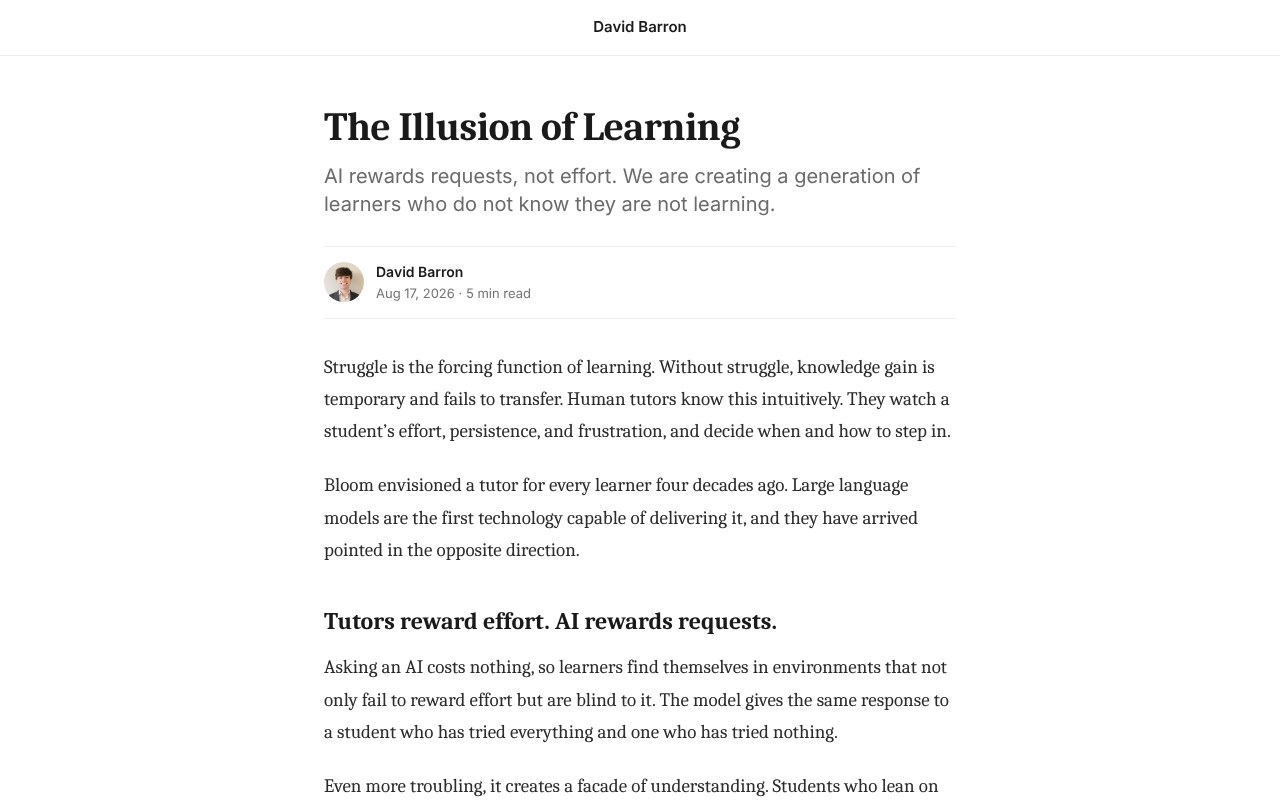
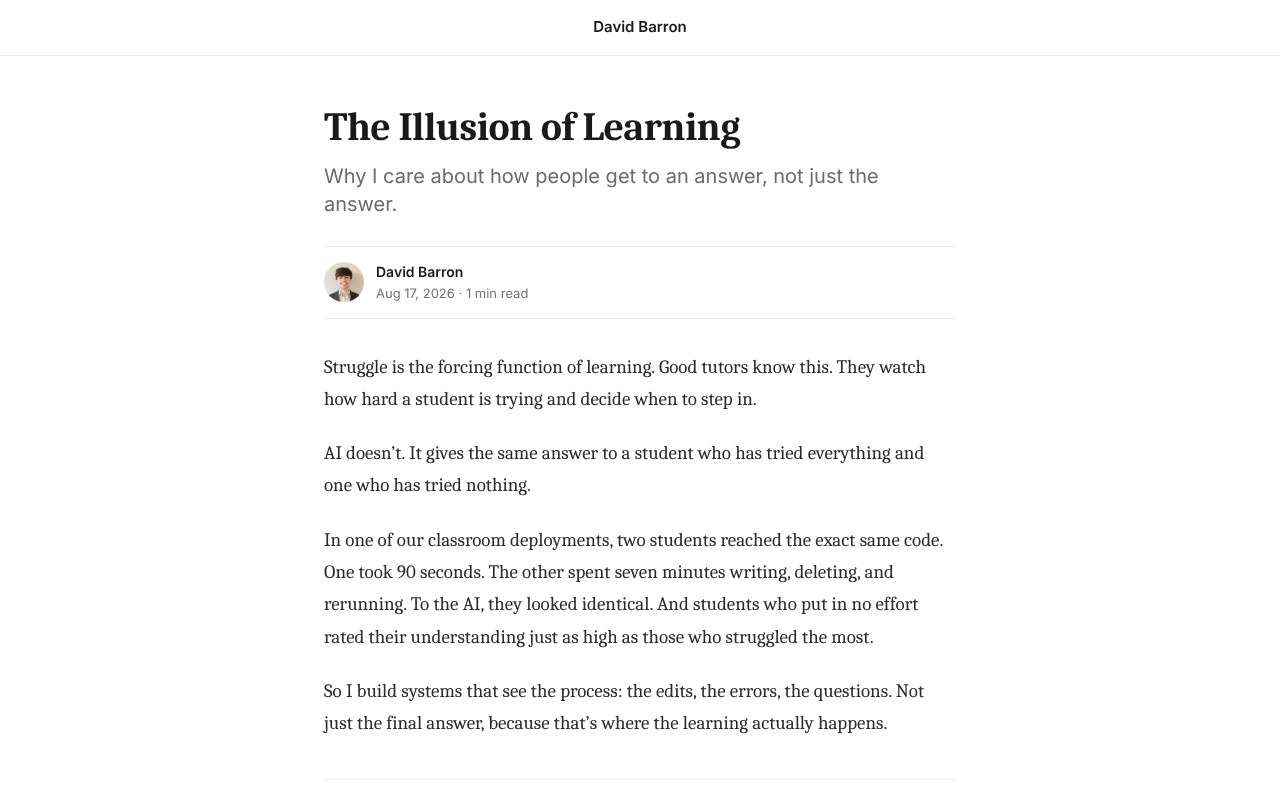
Shorten the processes essay to four paragraphs
Claude-Session: https://claude.ai/code/session_01DbsHnQUqvyjScQ5v9HB7wf

diff --git a/app/essays/illusion-of-learning/page.js b/app/essays/illusion-of-learning/page.js
@@ -1,6 +1,6 @@
 export const metadata = {
   title: "The Illusion of Learning — David Barron",
-  description: "AI rewards requests, not effort. We are creating a generation of learners who do not know they are not learning.",
+  description: "Why I care about how people get to an answer, not just the answer.",
 };
 
 export default function Essay() {
@@ -14,93 +14,30 @@ export default function Essay() {
 
       <article className="essay">
         <h1>The Illusion of Learning</h1>
-        <p className="essay-sub">
-          AI rewards requests, not effort. We are creating a generation of learners who do not know they are not
-          learning.
-        </p>
+        <p className="essay-sub">Why I care about how people get to an answer, not just the answer.</p>
 
         <div className="essay-byline">
           <img src="/headshot.png" alt="" width="40" height="40" />
           <div>
             <div className="name">David Barron</div>
-            <div className="date">Aug 17, 2026 · 5 min read</div>
+            <div className="date">Aug 17, 2026 · 1 min read</div>
           </div>
         </div>
 
         <div className="essay-body">
           <p>
-            Struggle is the forcing function of learning. Without struggle, knowledge gain is temporary and fails to
-            transfer. Human tutors know this intuitively. They watch a student’s effort, persistence, and frustration,
-            and decide when and how to step in.
+            Struggle is the forcing function of learning. Good tutors know this. They watch how hard a student is
+            trying and decide when to step in.
+          </p>
+          <p>AI doesn’t. It gives the same answer to a student who has tried everything and one who has tried nothing.</p>
+          <p>
+            In one of our classroom deployments, two students reached the exact same code. One took 90 seconds. The
+            other spent seven minutes writing, deleting, and rerunning. To the AI, they looked identical. And students
+            who put in no effort rated their understanding just as high as those who struggled the most.
           </p>
           <p>
-            Bloom envisioned a tutor for every learner four decades ago. Large language models are the first
-            technology capable of delivering it, and they have arrived pointed in the opposite direction.
-          </p>
-
-          <h2>Tutors reward effort. AI rewards requests.</h2>
-          <p>
-            Asking an AI costs nothing, so learners find themselves in environments that not only fail to reward
-            effort but are blind to it. The model gives the same response to a student who has tried everything and
-            one who has tried nothing.
-          </p>
-          <p>
-            Even more troubling, it creates a facade of understanding. Students who lean on AI report high
-            understanding while failing to transfer what they learned to similar problems. We are creating a
-            generation of learners who do not know they are not learning.
-          </p>
-
-          <h2>Same code, different story</h2>
-          <p>
-            Across eight introductory programming courses, I recorded what students did before they asked the AI for
-            help. Two of them arrived at their first question with exactly the same code:
-          </p>
-          <pre>
-            <code>{`grade_book = [[88,92,75],[70,85,90],[95,88,82]]
-grade_book.append([78,84,91])`}</code>
-          </pre>
-          <p>
-            The first got there in 90 seconds, with 23 edits and a single run, then asked for the “command for
-            changing a value in a list.” The second spent over seven minutes: 97 edits, 70 characters deleted, three
-            runs. Then they asked how to “update the first student’s third score to 80 if it is a list within a list.”
-          </p>
-          <p>
-            To the model, these two students look identical. Same code, a similar question. Only their behavior shows
-            that one struggled and the other did not.
-          </p>
-          <p>
-            The pattern held at scale. Across 664 students and 882,467 recorded events, about a third of the questions
-            sent to the AI came after no attempt at all. And when we asked students afterward how well they understood
-            the material, those who put in no effort rated themselves the same as those who struggled the most: 3.82
-            versus 3.75 out of 5.
-          </p>
-
-          <h2>Guardrails are not enough</h2>
-          <p>
-            The usual fix is a guardrail in the prompt, a tutor that asks Socratic questions instead of handing over
-            answers. It helps. But a learner who wants the solution will answer each Socratic question with shorter,
-            lower-effort queries until they get it.
-          </p>
-          <p>
-            More importantly, guardrails still cannot see the learner. It is as if a human tutor only opened their eyes
-            after the student asked their question.
-          </p>
-
-          <h2>Systems with their eyes open</h2>
-          <p>
-            Growth is a byproduct of remaining in the conditions that make its arrival inevitable. Those conditions
-            show up in behavior, and behavior can be observed: the edits, runs, errors, pauses, and questions that tell
-            the story of how a learner got to where they are. A system that sees that story can respond the way a good
-            tutor does, and produce growth as a byproduct rather than as an explicit goal.
-          </p>
-          <p>
-            It changes how we assess, too. We can no longer assess students only on what they produce, but on how they
-            arrived at it, and whether they can reproduce it without help. The old way of assessing students by what
-            they produce is dead. The only way forward is by what they did.
-          </p>
-          <p>
-            This is not a call to take AI out of classrooms. It is a call to build systems whose eyes are open:
-            watching how understanding is built, not merely what is produced.
+            So I build systems that see the process: the edits, the errors, the questions. Not just the final answer,
+            because that’s where the learning actually happens.
           </p>
         </div>
 
